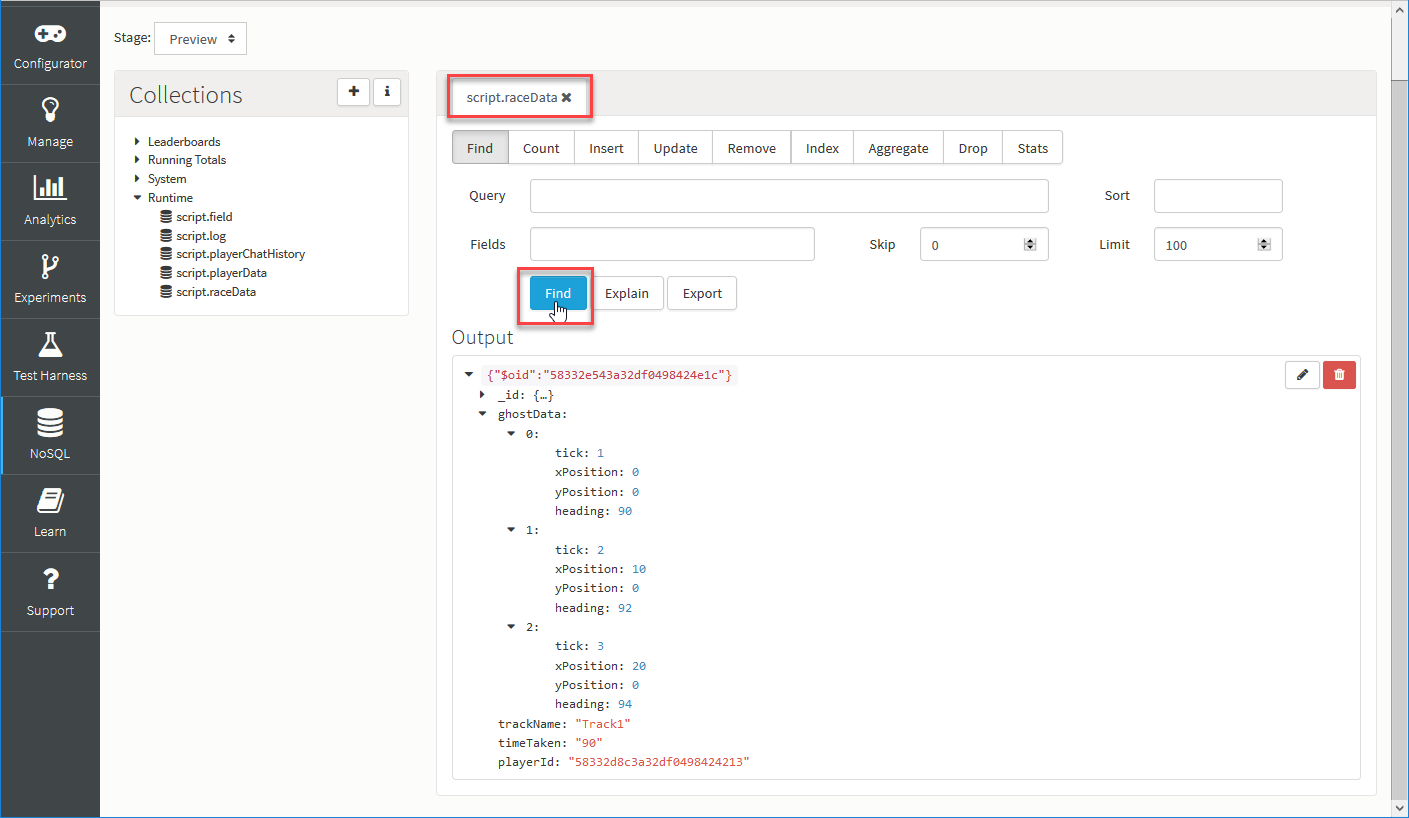
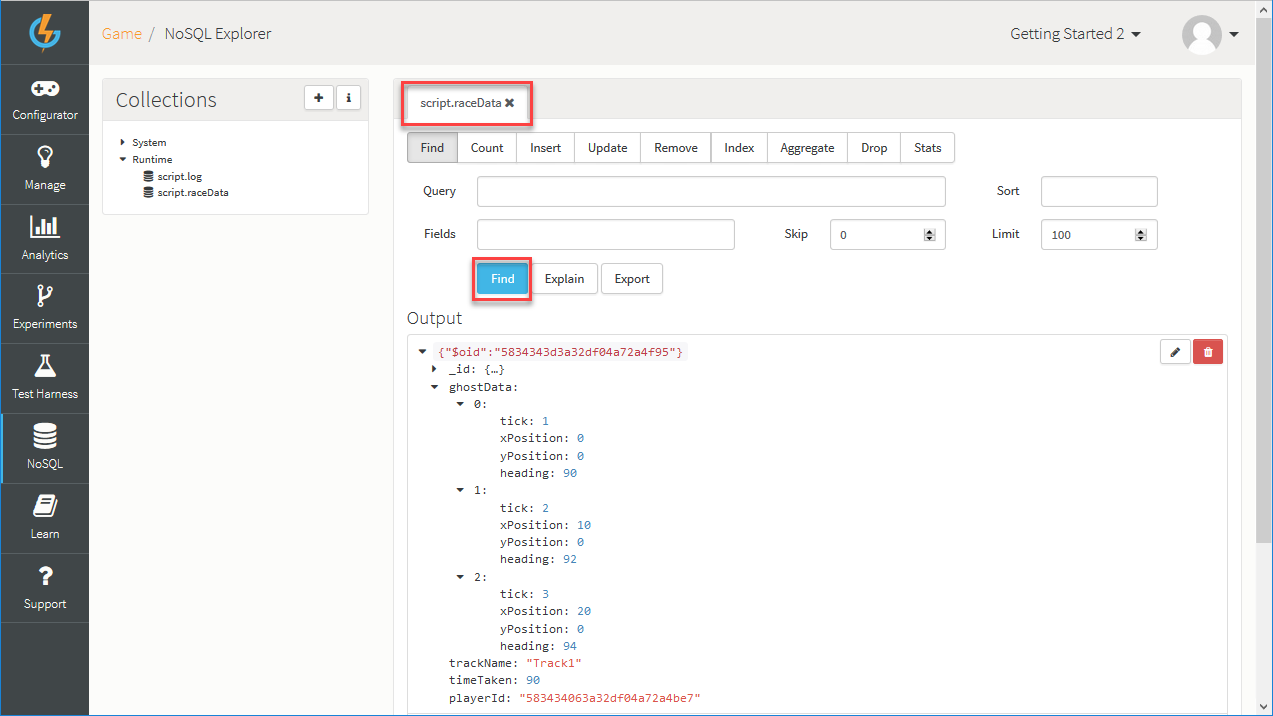
NEW UI Updates

diff --git a/MARKDOWN/Tutorials/Multiplayer/Sharing Data between Players.md b/MARKDOWN/Tutorials/Multiplayer/Sharing Data between Players.md
@@ -5,15 +5,20 @@ src: /Tutorials/Multiplayer/Sharing Data between Players.md
 
 # Sharing Data between Players
 
-The GameSparks platform makes it easy for developers to be able to share game data between players. You may want to use this to implement features such as ghost data replay in a racing game or for implementing the sharing of player-created game levels.
+The GameSparks platform makes it easy for developers to be able to share game data between players. You may want to use this to implement features such as:
+* Ghost data replay in a racing game.
+* Sharing player-created game levels.
 
-In this article, we'll examine how to share ghost race data that would allow a game to display another player's previous attempt at a track/level within a simple racing game. To do this, we'll create Event and Cloud Code scripts within the GameSparks Developer Portal and then test the configuration using the developer portal Test Harness.
+In this article, we'll work through an example of how to share ghost race data that would allow a game to display another player's previous attempt at a track/level within a simple racing game. To do this, we'll create Event and Cloud Code scripts within the GameSparks Developer Portal and then test the configuration using the Test Harness.
 
-## Key concepts
+## Key Concepts
 
 We will need to create an Event which we can use to post the ghost data into GameSparks when a player completes a race on a given track. This Event will have a Cloud Code script attached to it that stores the ghost data in the Mongo database. A second Event and Cloud Code script will be used to allow the game to query the ghost data collection for a given track and retrieve the player's ghost that represents the fastest time on this track.
 
-For the purpose of this article we will assume that the ghost race data can be represented by the following JSON document. The *tick* field is the game's animation counter, *xPosition* and *yPosition* are the coordinates of the player in the game world, and the *heading* field represents the direction that the player is facing within the game world.
+For the purpose of this article we will assume that the ghost race data can be represented by the following JSON document:
+* The *tick* field is the game's animation counter.
+* The *xPosition* and *yPosition* are the coordinates of the player in the game world.
+* The *heading* field represents the direction that the player is facing within the game world.
 
 ```    
 [
@@ -60,11 +65,11 @@ For the purpose of this article we will assume that the ghost race data can be r
 
 ```    
 
-### Testing the configuration
+### Testing the Configuration
 
 We will now use the Portal Test Harness and NoSQL Explorer to test the configuration and check the results.
 
-*1.* Navigate to the Developer Portal Test Harness and register a player, Player1, by sending a *RegistrationRequest* like this:
+*1.* Navigate to the Test Harness and under *Requests* click *Authentication*. Select *RegistrationRequest* and submit a request to register a new player, PlayerNI:
 
 ```    
   {
@@ -75,7 +80,7 @@ We will now use the Portal Test Harness and NoSQL Explorer to test the configura
   }
 ```
 
-*2.* Now click *LogEvent* under *Scripts* and select the *Store race data* Event and send the following *LogEventRequest*.
+*2.* Now click *LogEvent* under *Requests* and select the *Store race data* Event we created earlier and send the following *LogEventRequest*.
 
 * Note that for simplicity in this example we are only sending an array of ghost data containing three items in this article but in reality this array would be much larger.
 
@@ -104,12 +109,12 @@ We will now use the Portal Test Harness and NoSQL Explorer to test the configura
    }
    ],
    "TRACK": "Track1",
-   "TIME": "90"
+   "TIME": 90
   }
 
 ```
 
-If successful you will have received a *LogEventResponse* similar to this.
+If successful you'll get a *LogEventResponse* similar to this.
 
 ```    
   {
@@ -117,38 +122,44 @@ If successful you will have received a *LogEventResponse* similar to this.
   }
 ```
 
-*3.* In the portal, navigate to the *NoSQL Explorer* and under *Collections* expand *Runtime* and select *script.raceData*.
+*3.* Now, navigate to the *NoSQL Explorer* and under *Collections* expand *Runtime* and select *script.raceData*.
 
 
 *4.* Click *Find*:
-* You'll see the document that was saved as a result of our Cloud Code script executing when the Event was received - this is returned into the *Output*.
+* You'll see the document that was saved as a result of our Cloud Code script executing when the Event was received - this is returned into the *Output* panel.
 * You can click on the document to expand, edit or delete it.
 
 ![](img/PlayerDataSharing/7.png)
 
-*5.* Repeat the sending of the *Store race data* Event but change the data each time, especially the *TIME* field. This will result in several documents being stored in MongoDB for Player1.
+*5.* Repeat the sending of the *Store race data* Event but change the data each time, especially the *TIME* field. This will result in several documents being stored in MongoDB for PlayerN1.
 
-*6.* Now register a second player, Player2, by sending a *RegistrationRequest* and repeat the sending of the *Store race data* Event. Change the data each time, especially the *TIME* field. This will result in several documents being stored in MongoDB for Player2.
+*6.* Now register a second player, PlayerN2, by sending a *RegistrationRequest* and repeat the sending of the *Store race data* Event. Change the data each time, especially the *TIME* field. This will result in several documents being stored in MongoDB for PlayerN2.
 
 ## Creating the Event and Cloud Code Script for Retrieving Ghost Data
 
 Now we need to create an Event that allows the game to retrieve the fastest player's JSON ghost race data for a given track name.
 
-*1.* Log in to the GameSparks Portal and navigate to Configurator-> Events.
+### Creating the Data Retrieval Event
 
-*2.* Click on the plus icon to add a new Event.
+*1.* Navigate to *Configurator > Events*.
+
+*2.* Click to *Add* and a new Event.
 
 *3.* Set up the Event as follows:
 
-![](img/PlayerDataSharing/4.jpg)
+![](img/PlayerDataSharing/8.png)
 
-Next we create the Cloud Code script to retrieve the data from the MongoDB collection and return it in the LogEventResponse.
+*4.* Click to *Save and Close* the new Event.
 
-*1.* In the Portal navigate to Configurator->Cloud Code->Bindings->Events.
+### Adding Cloud Code to the Data Retrieval Event
 
-*2.* Select the Event we created in the previous section called 'Get race data'.
+Next we create the Cloud Code script to retrieve the data from the MongoDB collection and return it in the *LogEventResponse*.
 
-*3.* Copy and paste the following JavaScript code into it:
+*1.* Navigate to *Configurator > Cloud Code > Scripts > Events*.
+
+*2.* Select the *GET_RACE_DATA* Event we created in the previous section.
+
+*3.* Copy and paste the following Cloud Code into it:
 
 ```    
   // Get the incoming Event Attribute
@@ -161,21 +172,26 @@ Next we create the Cloud Code script to retrieve the data from the MongoDB col
   Spark.setScriptData("fastestRaceData", fastestRaceData);
 
 ```
-### Testing the configuration
 
-We will now use the Portal Test Harness to test the configuration and check the results.
+*4.* Click to *Save* the Cloud Code script on the Event.
 
-*1.* Navigate to the Developer Portal Test Harness and send an AuthenticationRequest for Player2 like this.
+### Testing the Configuration
+
+We'll now use the Test Harness to test the configuration and check the results.
+
+*1.* Navigate to the Test Harness, under *Scripts* click *Authentication*, and select *AuthenticationRequest*.
+
+*2.* Send the *AuthenticationRequest* for PlayerN2 that you registered at step *6.* when [testing](#Testing the Configuration) the storage Event we set up and which should be something like this:
 
 ```    
   {
    "@class": ".AuthenticationRequest",
-   "userName": "player2",
-   "password": "password"
+   "userName": "playerN2",
+   "password": "passwordN2"
   }
 ```
 
-*2.* Now send a 'Retrieve race data' Event for track 1 with this request.
+*2.* Now, click *Log Event* and select the *Retrieve race data* Event we just created and send a *LogEventRequest* for track 1:
 
 ```    
   {
@@ -186,43 +202,42 @@ We will now use the Portal Test Harness to test the configuration and check the 
 
 ```
 
-The response will look similar to this and should be the fastest 'timeTaken' document from the collection for the given track.
+The response will look similar to this and should be the fastest *timeTaken* document from the collection for the given track.
 
 ```    
+{
+  "@class": ".LogEventResponse",
+  "scriptData": {
+    "fastestRaceData": [
       {
-      "@class": ".LogEventResponse",
-      "scriptData": {
-      "fastestRaceData": [
-      {
-      "_id": {
-       "$oid": "537cc256e4b0e44047e56100"
-      },
-      "ghostData": [
-       {
-        "tick": 1,
-        "xPosition": 0,
-        "yPosition": 0,
-        "heading": 90
-       },
-       {
-        "tick": 2,
-        "xPosition": 10,
-        "yPosition": 0,
-        "heading": 92
-       },
-       {
-        "tick": 3,
-        "xPosition": 20,
-        "yPosition": 0,
-        "heading": 94
-       }
-      ],
-      "trackName": "Track1",
-      "timeTaken": "90",
-      "playerId": "537cc064e4b0e44047e554d8"
+        "_id": {
+          "$oid": "583434b73a32df04a72a56d5"
+        },
+        "ghostData": [
+          {
+            "tick": 1,
+            "xPosition": 0,
+            "yPosition": 0,
+            "heading": 90
+          },
+          {
+            "tick": 2,
+            "xPosition": 10,
+            "yPosition": 0,
+            "heading": 92
+          },
+          {
+            "tick": 3,
+            "xPosition": 20,
+            "yPosition": 0,
+            "heading": 94
+          }
+        ],
+        "trackName": "Track1",
+        "timeTaken": 89,
+        "playerId": "5834348e3a32df04a72a539c"
       }
     ]
   }
 }
-
 ```

diff --git a/MARKDOWN/Getting Started/Creating a Game/README.md b/MARKDOWN/Getting Started/Creating a Game/README.md
@@ -12,19 +12,53 @@ The GameSparks platform delivers a broad range of capabilities, making it a litt
 Before getting started as a new user, you'll need to create an account on the Developer Portal. To register, click **+ Register** on the login screen or at top-right from here. You are taken to the [Register](https://portal.gamesparks.net/register.htm) screen, where you can enter your account details.
 
 ## Creating the Game
-![l](img/CreatingGame/4.png)
 
  When registered, you can login:
- * If this is your first time using the Portal, you'll be greeted by the *Welcome!* screen. Click the ![](/img/fa/plus.png) icon in the middle of the screen to create your first game.
- * If you've used GameSparks before, click *Add Game* from the drop-down menu in the top-left of the screen.
+ * If this is your first time using the Portal, you'll be taken straight to the first stage of the game-creation process to create your first game.
+ * If you've used GameSparks before, click *Add Game* from the drop-down menu in the top-right of the screen.
 
-Give your game a *Name* and a *Description* and select the *Primary Region* you want for your game and then hit *Save*. You can use the name and description to identify the game in the portal and you can edit and change them at any time.
+Adding a game is a 3-stage process:
+* *Game Details* - Enter a name and description for your game.
+* *Features & Integrations* - Select the currencies, platform features, and 3rd-party integrations you want for your game.
+* *Geographical Setup* - Configure the Geographical Setup for your game.
 
-After hitting *Save* you'll be taken to the [Game Overview](/Documentation/Game Overview/README.md) page, where your game is now ready to be configured.
+<q>**Note!** In this section, we'll assume you've used Gamesparks before and have already created a game.</q>
 
-When you create a game, two things happen:
-* Your game is assigned a unique *Key* and *Secret*. You'll need these to set up your SDK.
+*1.* Log in to the portal. You'll be taken to the last game you had open.
+
+*2.* Using the *Games Menu* at top-right, select *Add New Game*. The *Add New Game* page opens at the first stage of the game-creation process.
+
+![](img/CreatingGame/8.png)
+
+*3.* Enter a *Name* and *Description* for your new game and click *Next*. The *Add New Game* page moves you to the second stage of the game-creation process.
+
+*4.* Use this second stage to define some baseline settings for your new game:
+
+![](img/CreatingGame/9.png)
+
+* Set *Signup Bonuses* for any of six currencies. Each new player will be credited with the currency amounts when they first register for your game.
+* Select the *Platform Features* you want for your game - by default, all are selected.
+* Under *Integrations*, select the 3rd-party providers you want to integrate your game with - by default, none are selected.
+
+<q>**Selections are not Final!** You'll be able to edit these settings later after you have created your game.</q>
+
+*5.* Click *Next*. The *Add New Game* page moves you to the third stage of the game-creation process.
+
+
+*6.* You can use this third stage for the *Geographical Setup* of your new game:
+
+![](img/CreatingGame/10.png)
+
+* Select the *Primary Region* you want for your game. In this example, we've chosen the Americas as the game's *Primary Region*.
+* Define the *Geo Restrictions* you want to impose on players of your game:
+  * Select which countries where you want to players to be allowed access to your game - the default is to allow players in all countries to have access.
+  * To block access for players in a country, select the country in the *Allow Access* list and use the arrows to move the country into the *Deny Access* list.
+
+*7.* When you have completed the third stage of the game creation process, click *Create*. You are taken to the *Game Overview* page of your new game:
+* Your game is assigned a unique *GameSparks API Key* and *GameSparks API Secret*. You'll need these to set up your SDK.
 * Your game is put into *Preview* stage. This is the stage where you build your game. When you are ready to publish your game, you can push it to the *Live* stage.
+
+<q>**Working with Game Overview?** For more details of how to work with the *Game Overview* page, you can review this [page](/Documentation/Game Overview/README.md).</q>
 
 ## Remembering Keys and Secrets
 

diff --git a/MARKDOWN/Documentation/Configurator/Leaderboards/Running Totals.md b/MARKDOWN/Documentation/Configurator/Leaderboards/Running Totals.md
@@ -40,7 +40,7 @@ The Add/Edit panel has the following fields.
   * *Name* - Enter the name of the Running Total, which is used to allow you to identify it in the portal if you have more than one Running Total.
   * *Event* - Select the Event this Running Total will process.
   * *Team* - Select the Type of Running Total (Player or Team). If a Team is not selected, then it is a Player Running Total
-  * *Group* - Select which Attributes from the Event should be used for grouping. The running total will use this Attribute to group other Attributes. This will lead to a running total with an entry per Attribute/user combination. A typical use case would be where you want to track each player's highest score relative to each level of your game, not simply each player's highest score across all game levels.
+  * *Group By* - Select which Attributes from the Event should be used for grouping. The running total will use this Attribute to group other Attributes. This will lead to a running total with an entry per Attribute/user combination. A typical use case would be where you want to track each player's highest score relative to each level of your game, not simply each player's highest score across all game levels.
 
 ### Adding Collectors for Running Totals
 
